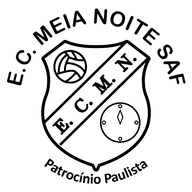
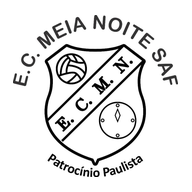
Ícones com o novo escudo EC Meia Noite SAF e ícone para iPhone

Changed region(s): [[0.0312, 0.0312, 0.9688, 0.9688]]

diff --git a/index.html b/index.html
@@ -4,15 +4,16 @@
 <meta charset="UTF-8" />
 <meta name="viewport" content="width=device-width, initial-scale=1.0" />
 <title>MeuCT · EC Meia Noite SAF</title>
-<link rel="manifest" href="./manifest.json">
-<meta name="meuct-versao" content="20261021T150712">
+<link rel="manifest" href="./manifest.json?v=2">
+<meta name="meuct-versao" content="20261021T151334">
 <meta name="theme-color" content="#0A1222">
 <meta name="mobile-web-app-capable" content="yes">
 <meta name="apple-mobile-web-app-capable" content="yes">
 <meta name="apple-mobile-web-app-status-bar-style" content="black-translucent">
 <meta name="apple-mobile-web-app-title" content="MeuCT">
-<link rel="apple-touch-icon" href="./icon-192.png">
-<link rel="icon" type="image/png" sizes="512x512" href="./icon-512.png">
+<link rel="apple-touch-icon" sizes="180x180" href="./apple-touch-icon.png?v=2">
+<link rel="icon" type="image/png" sizes="32x32" href="./favicon-32.png?v=2">
+<link rel="icon" type="image/png" sizes="512x512" href="./icon-512.png?v=2">
 <link rel="preconnect" href="https://fonts.googleapis.com">
 <link href="https://fonts.googleapis.com/css2?family=Barlow:ital,wght@0,400;0,500;0,600;0,700;0,800;1,500&family=Barlow+Condensed:wght@500;600;700&display=swap" rel="stylesheet">
 <script src="https://cdnjs.cloudflare.com/ajax/libs/react/18.2.0/umd/react.production.min.js"></script>
